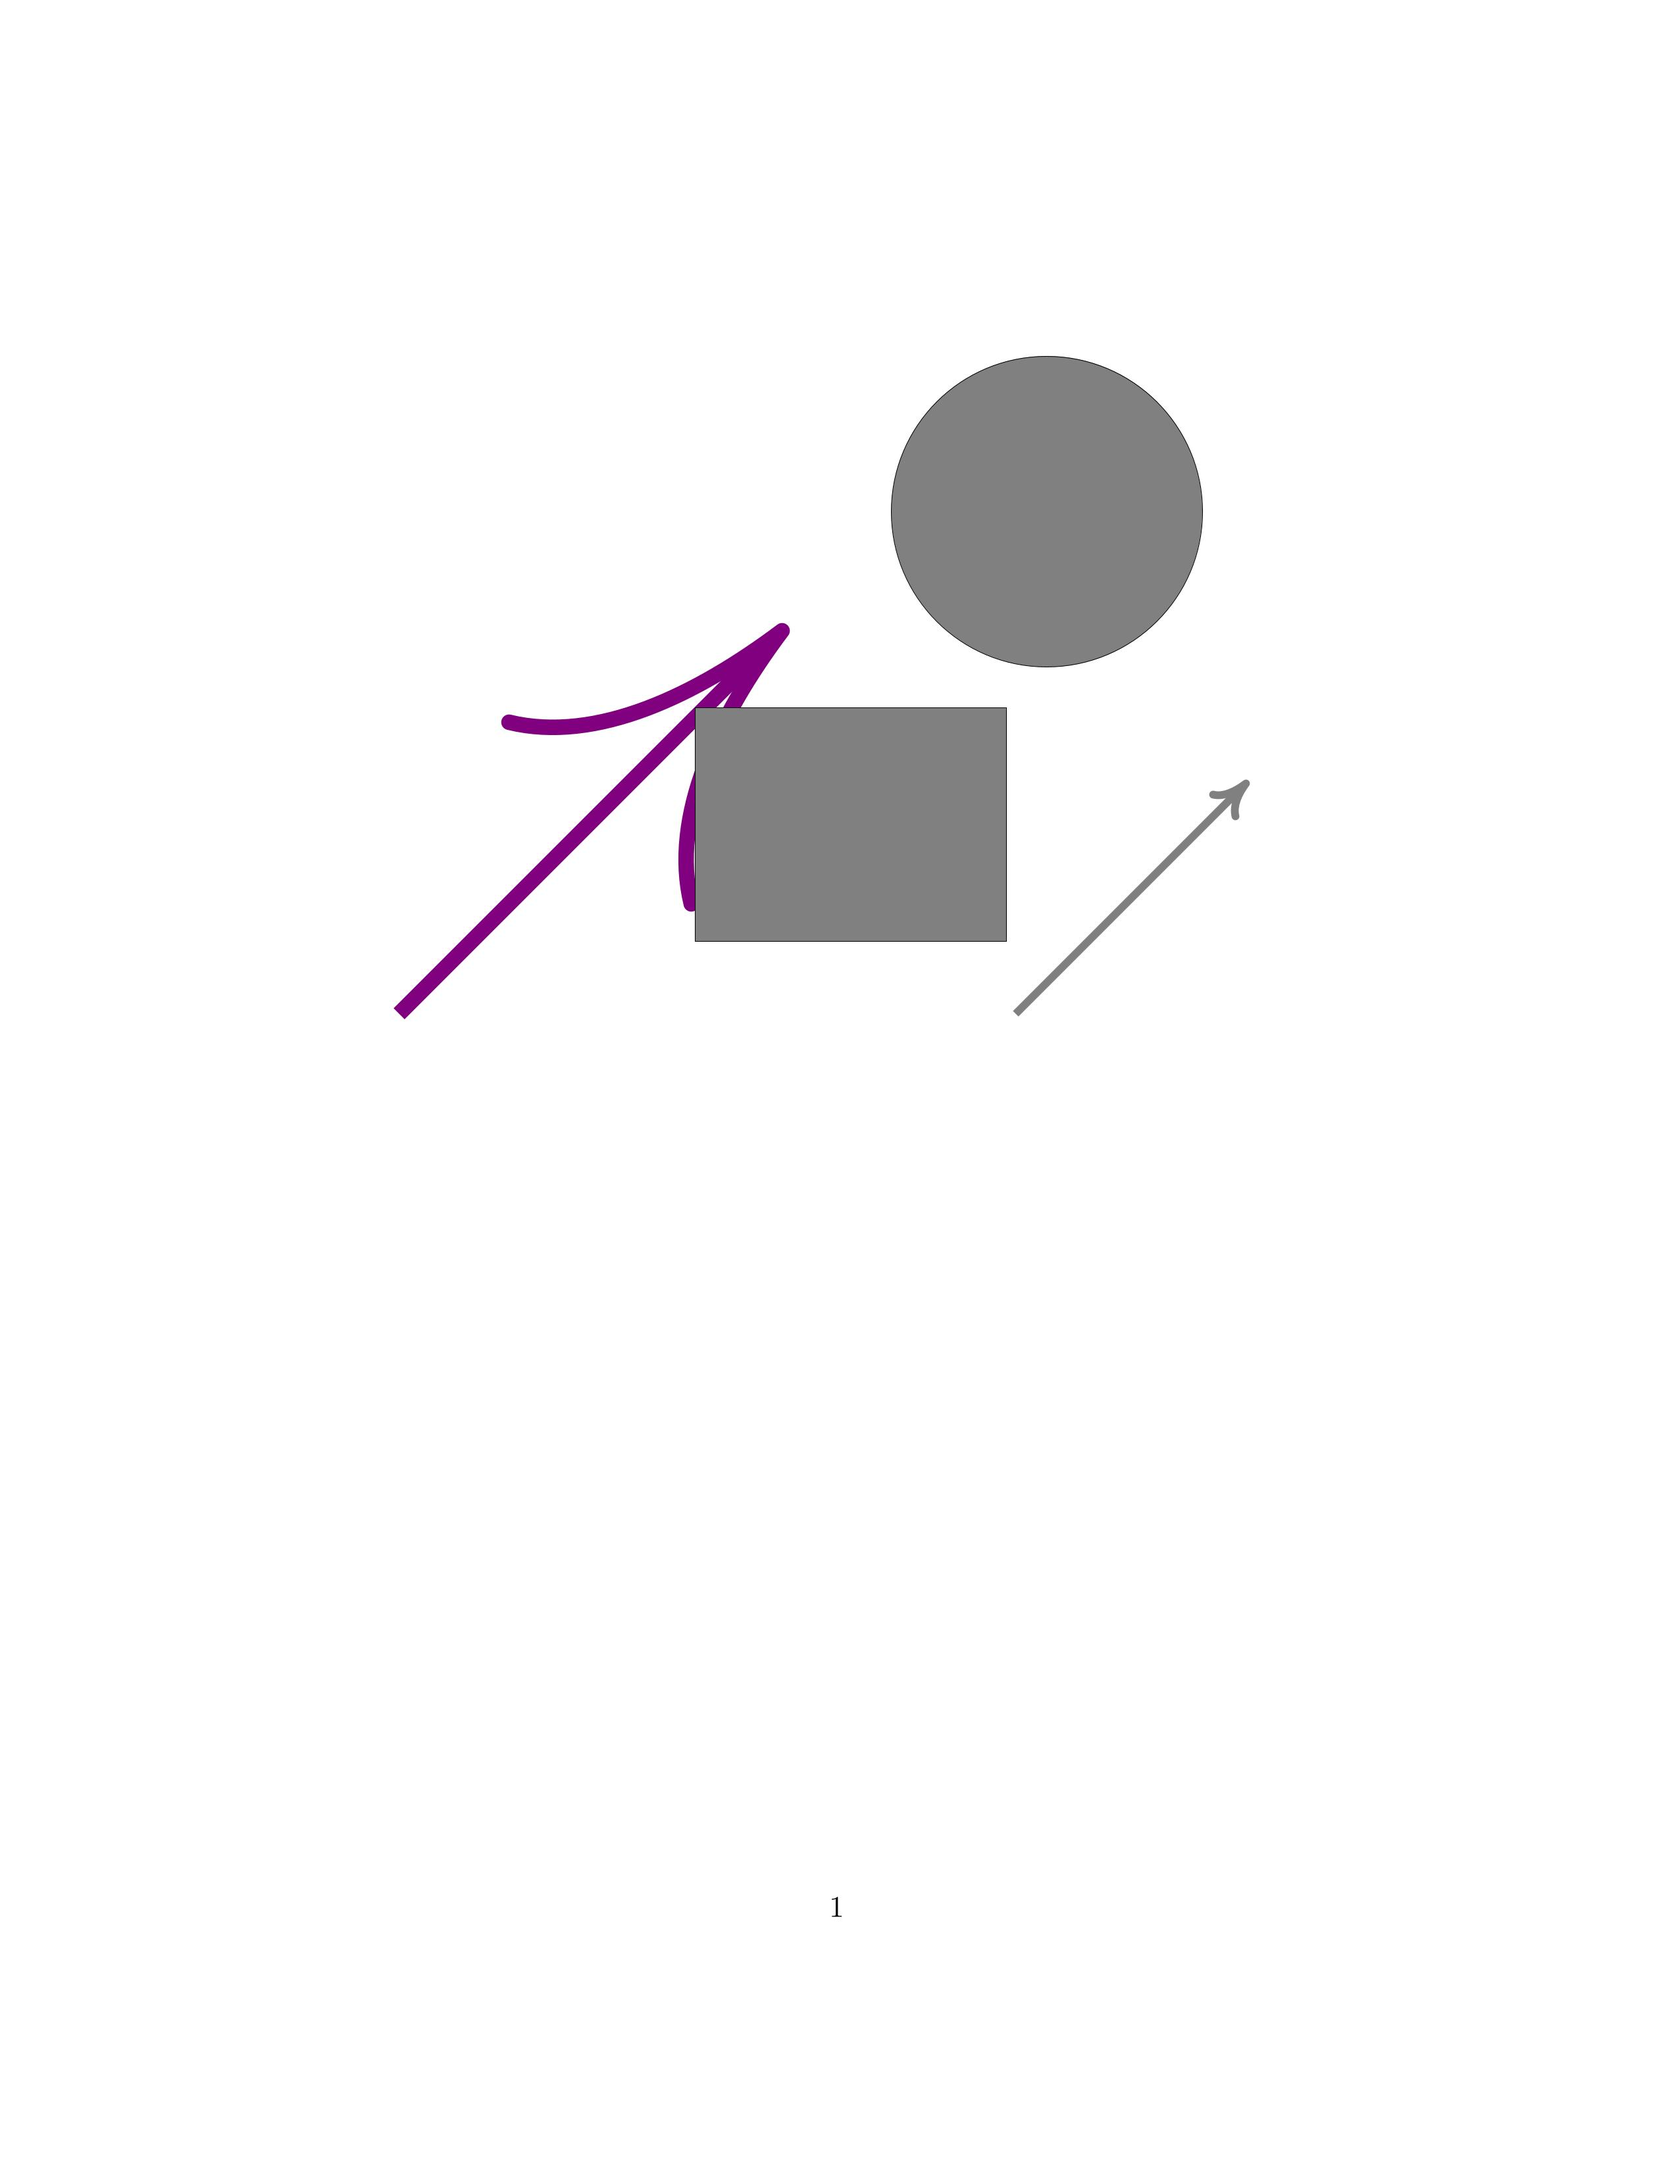
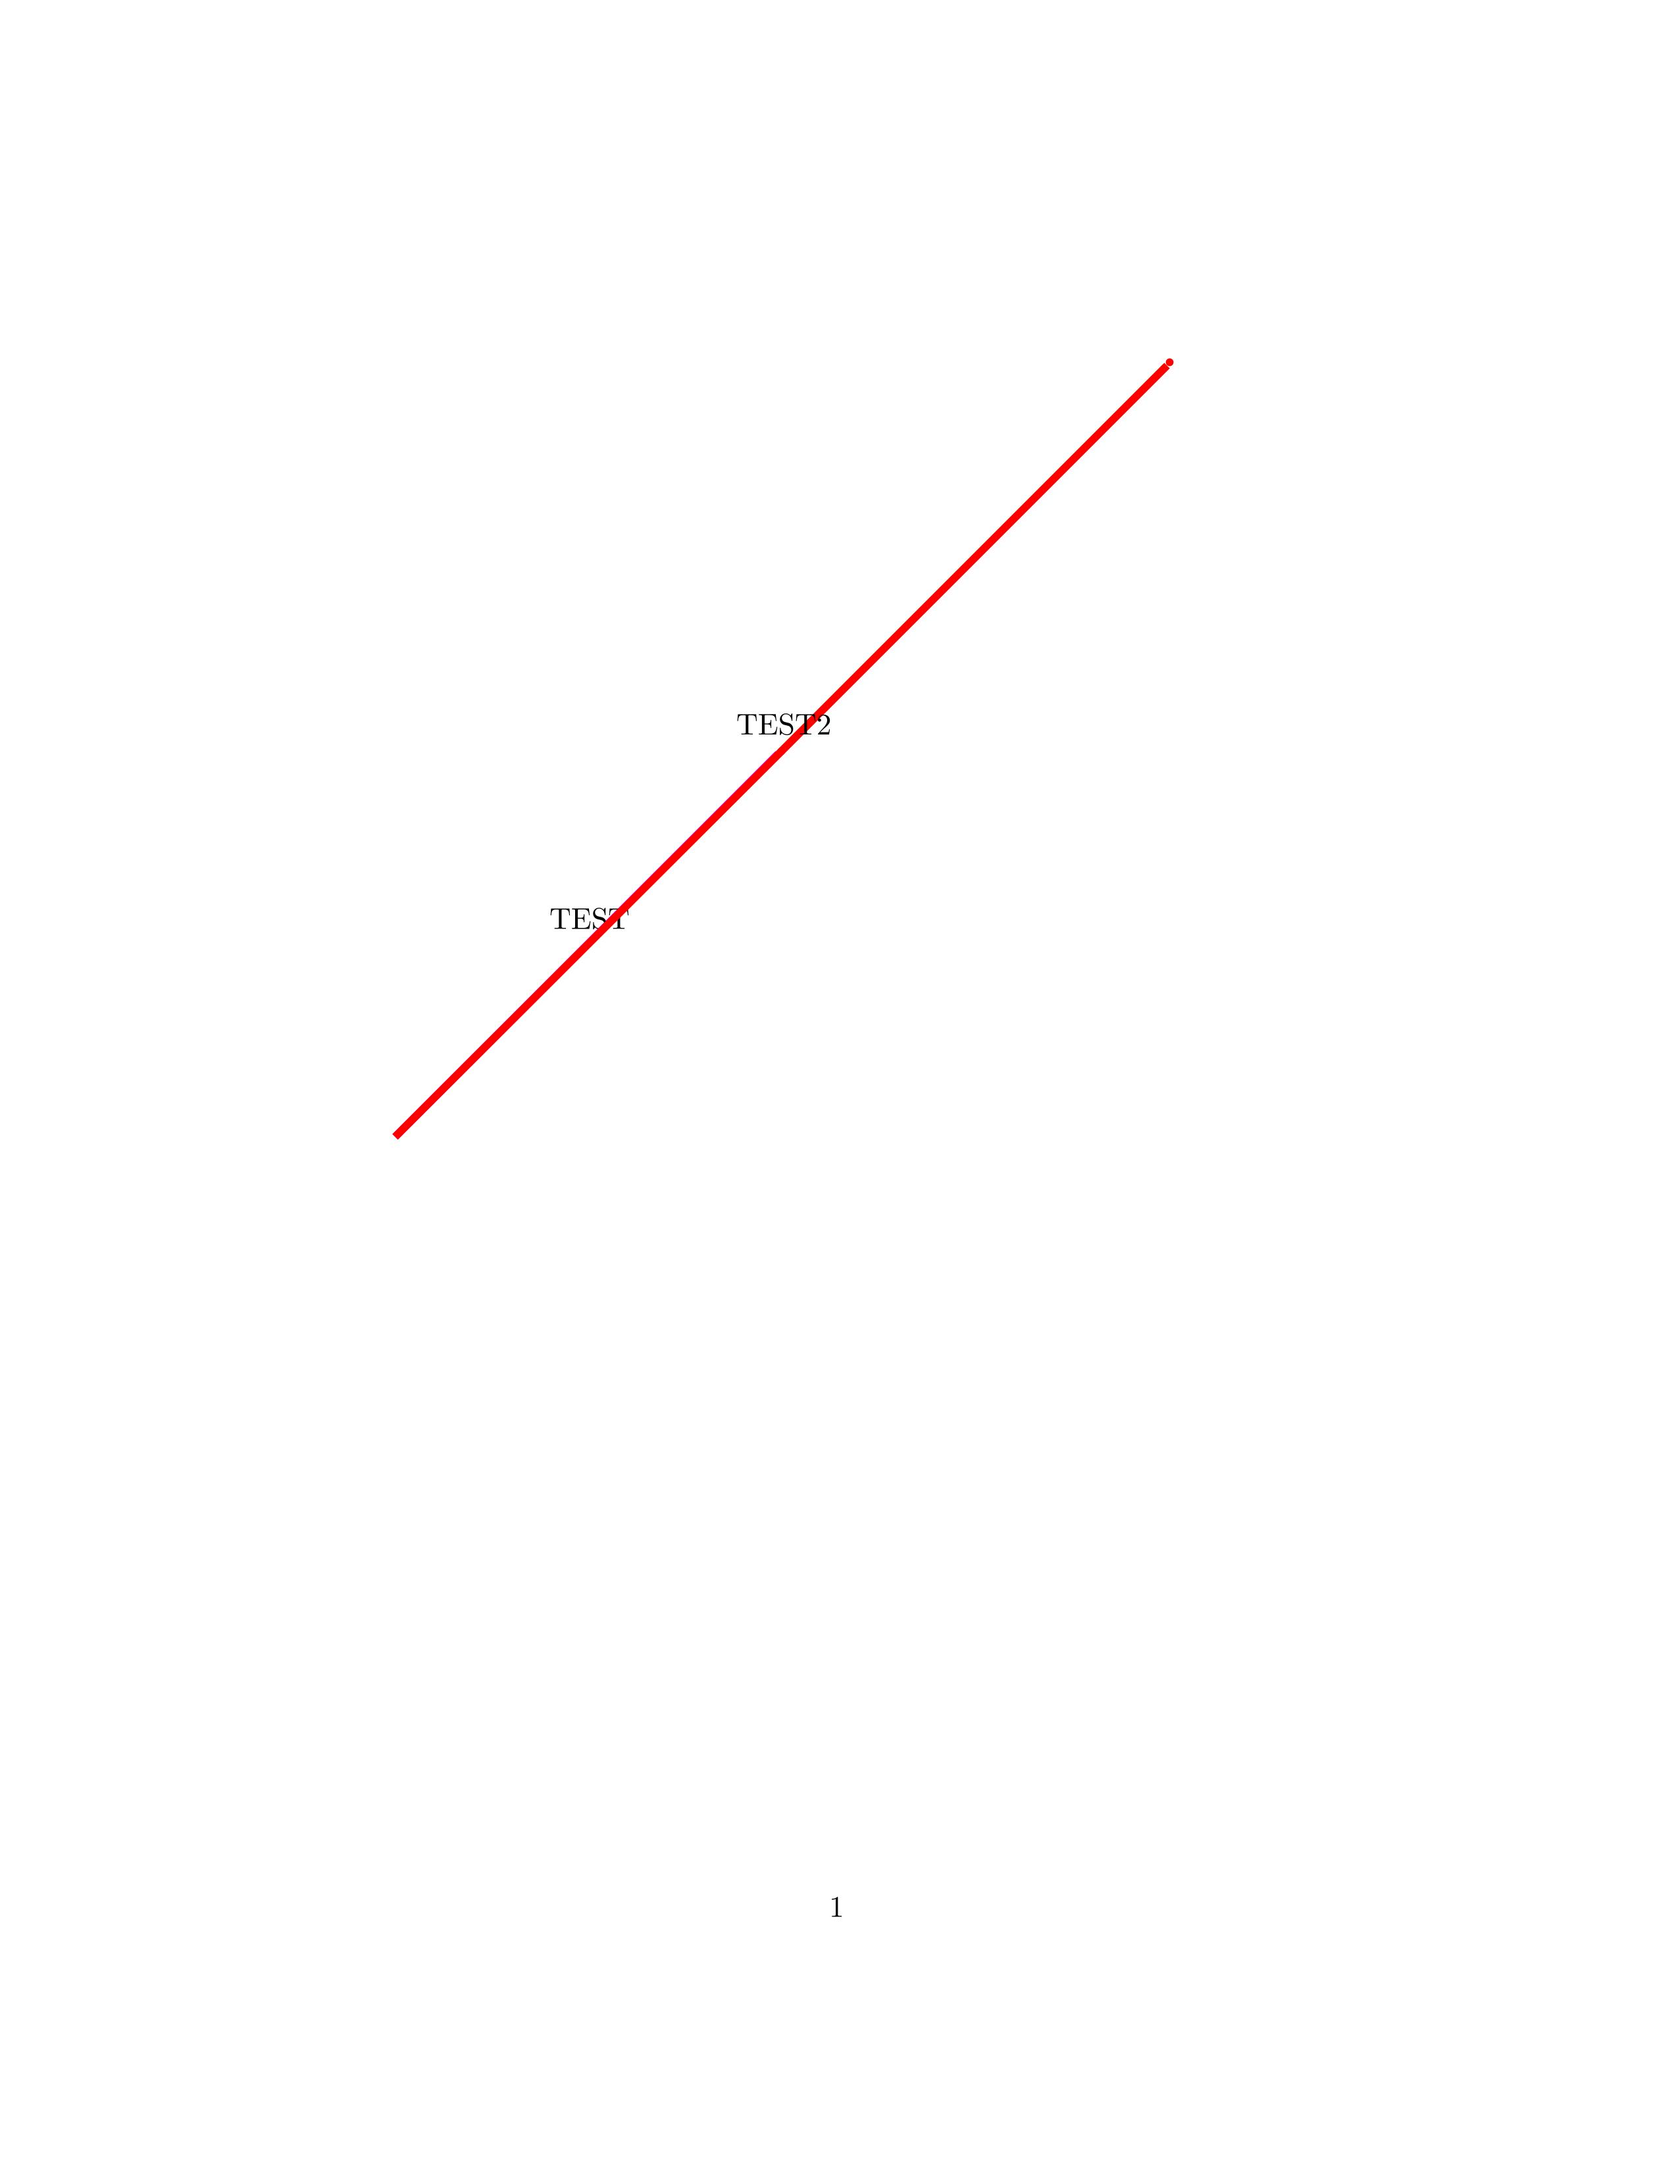
ArrowLabel

diff --git a/Latex/amissena.tex b/Latex/amissena.tex
@@ -8,9 +8,7 @@
 % Document
 \begin{document}
     \begin{tikzpicture}
-	\draw [arrows={->[length=100.0, width=100.0]} ,line width=2.0mm ,color={rgb:red,100.0;green,0.0;blue,100.0}] (0.0,0.0) -- (5.0,5.0);
-	\draw [arrows={->[length=5.0mm, width=5.0mm]} ,line width=1.0mm ,color={rgb,1:red,0.501960813999176;green,0.501960813999176;blue,0.501960813999176}] (7.934419,0.0) -- (10.93442,3.0);
-	\filldraw[fill={rgb,1:red,0.501960813999176;green,0.501960813999176;blue,0.501960813999176},line width=0.15] (8.334136,6.4645233) circle (2.0);
-	\filldraw[fill={rgb,1:red,0.501960813999176;green,0.501960813999176;blue,0.501960813999176},line width=0.15] (3.8120396,0.9380254) rectangle (7.8120394,3.9380255);
+	\draw [arrows={->[length=1.0mm, width=1.0mm]} ,line width=1.0mm ,color={rgb,1:red,1.0;green,0.0;blue,1.0}] (0.0,0.0) -- (2.5,2.5) node[color=black,above]{TEST} -- (5.0,5.0);
+	\draw [arrows={->[length=1.0mm, width=1.0mm]} ,line width=1.0mm ,color={rgb,1:red,1.0;green,0.0;blue,0.0}] (0.0,0.0) -- (5.0,5.0) node[color=black, above]{TEST2} -- (10.0,10.0);
     \end{tikzpicture}
 \end{document}

diff --git a/src/Model/Shapes/Arrow.java b/src/Model/Shapes/Arrow.java
@@ -32,9 +32,10 @@ public class Arrow extends Link {
         code += " ,color={rgb,1:red," + getColor().getRed() + ";green," + getColor().getGreen() +
                 ";blue," + getColor().getBlue() + "}]";
 
-        //Draw line Position
+        //Draw line Position + Label in the Middle
         code += " (" + getxOrigin() + "," + getyOrigin() + ")";
-        code += " --";
+        code += " -- (" + (getxDestination()-getxOrigin())/2 + "," + (getyDestination()-getyOrigin())/2 + ")" ;
+        code += " node[color=black, above] {" + getLabel() + "} --" ;
         code += " (" + getxDestination() + "," + getyDestination() + ");\n";
         return code;
     }

diff --git a/src/Model/Shapes/Circle.java b/src/Model/Shapes/Circle.java
@@ -14,7 +14,7 @@ public class Circle extends Node {
     @Override
     public String generateAndGetTikzCode() {
         String code = "\\filldraw";
-        code += "[fill={rgb,1:red," + getColor().getRed() + ";green," + getColor().getGreen() + ";blue," + getColor().getBlue() + "}," +
+        code += "fill={rgb,1:red," + getColor().getRed() + ";green," + getColor().getGreen() + ";blue," + getColor().getBlue() + "}," +
                 "line width=" + getOutlineThickness() / 20 + "] ";
         code += "(" + getPosX() + "," + getPosY() + ") circle ";
         code += "(" + radius + ");\n";

diff --git a/src/Model/Shapes/Shape.java b/src/Model/Shapes/Shape.java
@@ -35,7 +35,7 @@ public abstract class Shape {
     }
 
     /**
-     * Generate the TikZCode for the shape
+     * Generate the TikZCode for the shape needs to be overwritten for each shape
      *
      * @return Tikz code
      */
